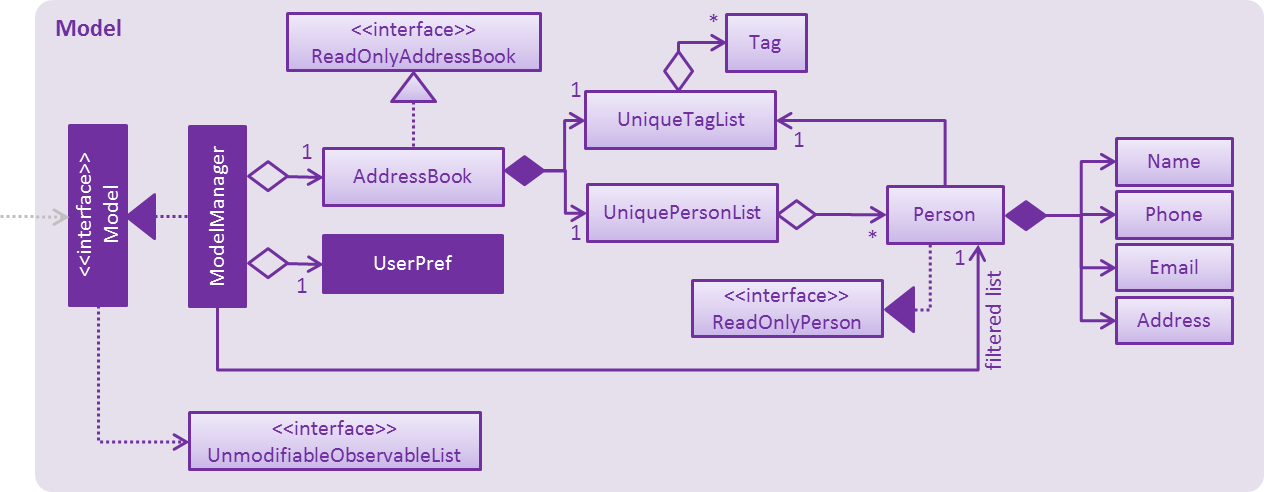
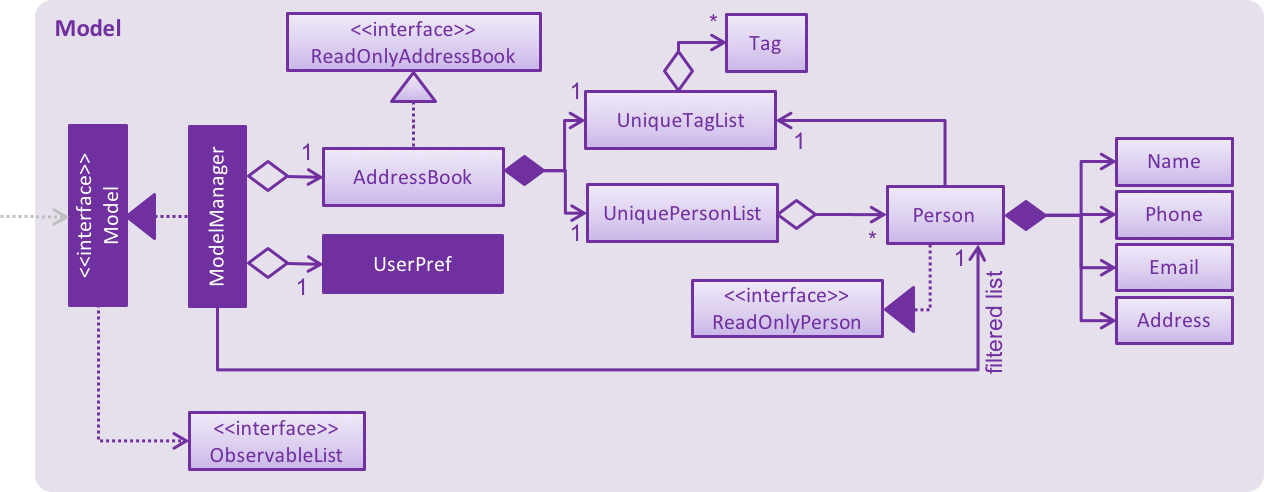
Rebuild pages at bfaee145bbc4be28b9826ac8780946133a69f805

diff --git a/DeveloperGuide.html b/DeveloperGuide.html
@@ -557,7 +557,7 @@ Note how the event is propagated through the <code>EventsCenter</code> to the <c
 <p>stores the Address Book data.</p>
 </li>
 <li>
-<p>exposes a <code>UnmodifiableObservableList&lt;ReadOnlyPerson&gt;</code> that can be 'observed' e.g. the UI can be bound to this list so that the UI automatically updates when the data in the list change.</p>
+<p>exposes an unmodifiable <code>ObservableList&lt;ReadOnlyPerson&gt;</code> that can be 'observed' e.g. the UI can be bound to this list so that the UI automatically updates when the data in the list change.</p>
 </li>
 <li>
 <p>does not depend on any of the other three components.</p>
@@ -1786,7 +1786,7 @@ Use case resumes at step 2</p>
 </div>
 <div id="footer">
 <div id="footer-text">
-Last updated 2017-09-04 01:41:17 +00:00
+Last updated 2017-09-06 01:04:50 +00:00
 </div>
 </div>
 </body>

diff --git a/LearningOutcomes.html b/LearningOutcomes.html
@@ -589,7 +589,7 @@ class gives some examples of how to use <em>Equivalence Partitions</em>, <em>Bou
 </div>
 <div id="footer">
 <div id="footer-text">
-Last updated 2017-09-04 01:41:17 +00:00
+Last updated 2017-09-06 01:04:50 +00:00
 </div>
 </div>
 </body>

diff --git a/UsingGradle.html b/UsingGradle.html
@@ -261,7 +261,7 @@ See <code>build.gradle</code> &#8594; <code>allprojects</code> &#8594; <code>dep
 </div>
 <div id="footer">
 <div id="footer-text">
-Last updated 2017-09-04 01:41:17 +00:00
+Last updated 2017-09-06 01:04:50 +00:00
 </div>
 </div>
 </body>

diff --git a/team/johndoe.html b/team/johndoe.html
@@ -360,7 +360,7 @@ If the <code>redoStack</code> is empty, then there are no other commands left to
 </div>
 <div id="footer">
 <div id="footer-text">
-Last updated 2017-09-04 01:41:17 +00:00
+Last updated 2017-09-06 01:04:50 +00:00
 </div>
 </div>
 </body>

diff --git a/TestDocument.html b/TestDocument.html
@@ -178,7 +178,7 @@ This should be on a new line.</p>
 </div>
 <div id="footer">
 <div id="footer-text">
-Last updated 2017-09-04 01:41:17 +00:00
+Last updated 2017-09-06 01:04:50 +00:00
 </div>
 </div>
 </body>

diff --git a/UserGuide.html b/UserGuide.html
@@ -531,7 +531,7 @@ e.g.<code>select 2</code></p>
 </div>
 <div id="footer">
 <div id="footer-text">
-Last updated 2017-09-04 01:41:17 +00:00
+Last updated 2017-09-06 01:04:50 +00:00
 </div>
 </div>
 </body>

diff --git a/AboutUs.html b/AboutUs.html
@@ -120,7 +120,7 @@ Responsibilities: UI</p>
 </div>
 <div id="footer">
 <div id="footer-text">
-Last updated 2017-09-04 01:41:17 +00:00
+Last updated 2017-09-06 01:04:50 +00:00
 </div>
 </div>
 </body>

diff --git a/UsingAppVeyor.html b/UsingAppVeyor.html
@@ -174,7 +174,7 @@ grant access:</p>
 </div>
 <div id="footer">
 <div id="footer-text">
-Last updated 2017-09-04 01:41:17 +00:00
+Last updated 2017-09-06 01:04:50 +00:00
 </div>
 </div>
 </body>

diff --git a/UsingTravis.html b/UsingTravis.html
@@ -169,7 +169,7 @@
 </div>
 <div id="footer">
 <div id="footer-text">
-Last updated 2017-09-04 01:41:17 +00:00
+Last updated 2017-09-06 01:04:50 +00:00
 </div>
 </div>
 </body>

diff --git a/index.html b/index.html
@@ -105,7 +105,7 @@
 </div>
 <div id="footer">
 <div id="footer-text">
-Last updated 2017-09-04 01:41:17 +00:00
+Last updated 2017-09-06 01:04:50 +00:00
 </div>
 </div>
 </body>

diff --git a/ContactUs.html b/ContactUs.html
@@ -31,7 +31,7 @@
 </div>
 <div id="footer">
 <div id="footer-text">
-Last updated 2017-09-04 01:41:17 +00:00
+Last updated 2017-09-06 01:04:50 +00:00
 </div>
 </div>
 </body>

diff --git a/UsingGithubPages.html b/UsingGithubPages.html
@@ -81,7 +81,7 @@
 </div>
 <div id="footer">
 <div id="footer-text">
-Last updated 2017-09-04 01:41:17 +00:00
+Last updated 2017-09-06 01:04:50 +00:00
 </div>
 </div>
 </body>
